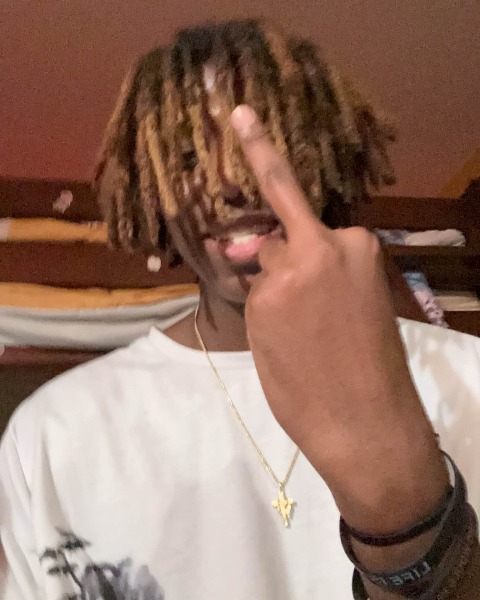
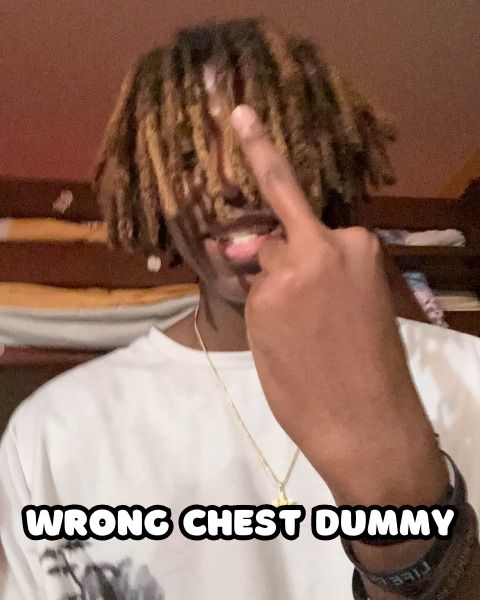
touchups 2

Changed region(s): [[0.0312, 0.84, 0.9688, 0.9]]

diff --git a/Reese's Bday gift.py b/Reese's Bday gift.py
@@ -275,14 +275,14 @@ class Block(Object):
         self.mask = pygame.mask.from_surface(self.image)
 
 
-class Fire(Object):
+class Chest(Object):
     ANIMATION_DELAY = 3
 
     def __init__(self, x, y, width, height):
         # fire
-        super().__init__(x, y, width, height, "fire")
-        self.fire = load_sprite_sheets("Traps", "Fire", width, height)
-        self.image = self.fire["on"][0]
+        super().__init__(x, y, width, height, "chest")
+        self.chest = load_sprite_sheets("Traps", "Chest", width, height)
+        self.image = self.chest["on"][0]
         self.mask = pygame.mask.from_surface(self.image)
         self.animation_count = 0
         self.animation_name = "off"
@@ -294,7 +294,7 @@ class Fire(Object):
         self.animation_name = "off"
 
     def loop(self):
-        sprites = self.fire[self.animation_name]
+        sprites = self.chest[self.animation_name]
         sprite_index = (self.animation_count //
                         self.ANIMATION_DELAY) % len(sprites)
         self.image = sprites[sprite_index]
@@ -378,10 +378,10 @@ def handle_move(player, objects):
     to_check = [collide_left, collide_right, *vertical_collide]
 
     for obj in to_check:
-        if obj and obj.name == "fire":
+        if obj and obj.name == "chest":
             player.make_hit()
     for obj in objects:
-        if isinstance(obj, Fire) and collide_rect(player, obj):
+        if isinstance(obj, Chest) and collide_rect(player, obj):
             if obj.rect.x == -830:
                 player.make_hit()
             if obj.rect.x == 3775:
@@ -447,11 +447,11 @@ def display_message(message, clock):
             text2_rect = text2.get_rect(center=(WIDTH // 2, HEIGHT - 350))
             message_window.blit(text2, text2_rect)
 
-            text3 = font.render("But there is more... Find the mystery chest!", 0, (0, 0, 0))
+            text3 = font.render("Did you find the mystery chest yet?", 0, (0, 0, 0))
             text3_rect = text3.get_rect(center=(WIDTH // 2, HEIGHT - 230))
             message_window.blit(text3, text3_rect)
 
-            text4 = font.render("(  Hint: A  )", 0, (0, 0, 0))
+            text4 = font.render("(  Play again?  )", 0, (0, 0, 0))
             text4_rect = text4.get_rect(center=(WIDTH // 2, HEIGHT - 150))
             message_window.blit(text4, text4_rect)
 
@@ -479,21 +479,35 @@ def main(window):
     # (...- block_size - "height", range of animation/sprite, bottom of object range)
     # Fire(x axis position,...)
     player = Player(210, HEIGHT - 50, 50, 50)
-    fire = Fire(-530, HEIGHT - block_size - 64, 15, 32)
-    fire.on()
+    #suprise chest
+    chest = Chest(-1800, HEIGHT - block_size - 64, 15, 32)
     floor = [Block(i * block_size, HEIGHT - block_size, block_size)
              for i in range(-WIDTH*2 // block_size, (WIDTH * 4) // block_size)]
     # where the floor, grass blocks, and fire you want to place them
     objects = [*floor,
-               fire,
-               Fire(800, HEIGHT - block_size - 64, 15, 32),
-               Fire(2050, HEIGHT - block_size * 3 - 64, 15, 32),
-               Fire(3775, HEIGHT - block_size * 2 - 64, 15, 32),
-               Block(block_size * -10, HEIGHT - block_size * 2, block_size),
-               Block(block_size * -10, HEIGHT - block_size * 3, block_size),
-               Block(block_size * -10, HEIGHT - block_size * 4, block_size),
-               Block(block_size * -10, HEIGHT - block_size * 5, block_size),
-               Block(block_size * -10, HEIGHT - block_size * 6, block_size),
+               chest,
+               Chest(800, HEIGHT - block_size - 64, 15, 32),
+               Chest(2050, HEIGHT - block_size * 3 - 64, 15, 32),
+               Chest(3775, HEIGHT - block_size * 2 - 64, 15, 32),
+               Block(block_size * -20, HEIGHT - block_size * 2, block_size),
+               Block(block_size * -20, HEIGHT - block_size * 3, block_size),
+               Block(block_size * -20, HEIGHT - block_size * 4, block_size),
+               Block(block_size * -20, HEIGHT - block_size * 5, block_size),
+               Block(block_size * -20, HEIGHT - block_size * 6, block_size),
+               Block(block_size * -15, HEIGHT - block_size * 2, block_size),
+               Block(block_size * -14, HEIGHT - block_size * 2, block_size),
+               Block(block_size * -14, HEIGHT - block_size * 3, block_size),
+               Block(block_size * -13, HEIGHT - block_size * 2, block_size),
+               Block(block_size * -13, HEIGHT - block_size * 3, block_size),
+               Block(block_size * -13, HEIGHT - block_size * 4, block_size),
+               Block(block_size * -12, HEIGHT - block_size * 5, block_size),
+               Block(block_size * -12, HEIGHT - block_size * 4, block_size),
+               Block(block_size * -12, HEIGHT - block_size * 3, block_size),
+               Block(block_size * -12, HEIGHT - block_size * 2, block_size),
+               Block(block_size * -9, HEIGHT - block_size * 3, block_size),
+               Block(block_size * -8, HEIGHT - block_size * 3, block_size),
+               Block(block_size * -7, HEIGHT - block_size * 3, block_size),
+               Block(block_size * -5, HEIGHT - block_size * 2, block_size),
                Block(block_size * 5, HEIGHT - block_size * 2, block_size),
                Block(block_size * 6, HEIGHT - block_size * 3, block_size),
                Block(block_size * 6, HEIGHT - block_size * 2, block_size),
@@ -513,9 +527,8 @@ def main(window):
                Block(block_size * 41, HEIGHT - block_size * 3, block_size),
                Block(block_size * 41, HEIGHT - block_size * 4, block_size),
                Block(block_size * 41, HEIGHT - block_size * 5, block_size),
-               Block(block_size * 41, HEIGHT - block_size * 6, block_size),
-
                ]
+    chest.on()
 
     offset_x = 0
     # how far off to side you go
@@ -540,7 +553,7 @@ def main(window):
                 if event.key == pygame.K_SPACE and player.jump_count < 2:
                     player.jump()
 
-        if player.rect.colliderect(fire.rect):
+        if player.rect.colliderect(chest.rect):
             # Show the message and set the flag to True
             if not player_colliding:
                 player_colliding = True
@@ -551,7 +564,7 @@ def main(window):
             player_colliding = False
 
         player.loop(FPS)
-        fire.loop()
+        chest.loop()
         handle_move(player, objects)
         draw(window, background, bg_image, player, objects, offset_x)
 
